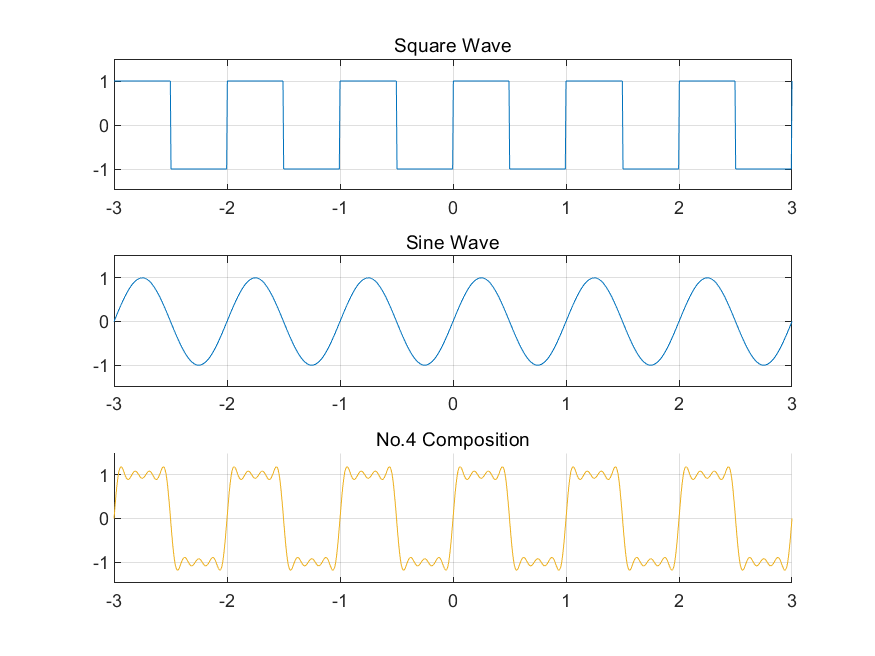
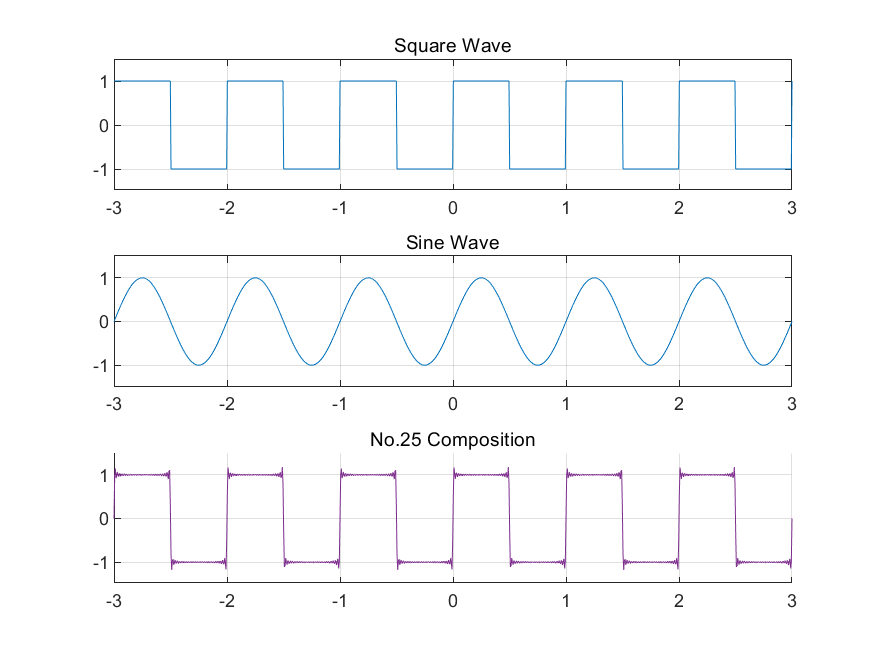
Add something

diff --git a/Project.tex b/Project.tex
@@ -80,30 +80,37 @@ If we imagine this graph is having some kind of mass to it, like metal wire. We 
 And we can do the same operation in a combination of two signal: $cos(2\pi 3t)+cos(2\pi 5t)$. Then we can get similar result: two peaks at 3 and 5 Hz. And now, we can make a bold assumptions that we can use the combination of sine or cosine signal to build another arbitrary signal. And we should proof it.\par
 Let us assume $f(t)=\sum\limits^{N}A_n \sin (n\omega t+\phi)$, then we will prove it.
 Since we want to using the combination of sine function, we let $f_T(t)$ equals to the sum of n-terms sine signal.
+%%Orignal sine formula
 $$
 f_T(t)=C_0+\sum\limits_{n=1}^N{\sin(n\Omega t+\phi_{n} ) } \quad \Omega=\frac{2\pi}{t}
 $$
+
 And we can make some modifications to the formula.
+%%Expansion of last formula
 $$
 f_T(t)=C_0+\sum\limits_{n=1}^N{[
 	A_n\sin(n\Omega t)\cos\phi_n+
 	A_n\cos(n\Omega t)\sin\phi_n
 	]}
 $$
+
 Let's denote $a_n=A_n\cos\phi_n$ and $b_n=A_n\sin\phi_n$
+%%Denote an and bn
 $$
 f_T(t)=C_0+\sum\limits_{n=1}^N{[
 	a_n\sin(n\Omega t)+
 	b_n\cos(n\Omega t)
 	]}
 $$
+
 Apply Euler's formula
+%%Euler's formula
 \begin{align}\nonumber
 \sin(x)=\frac{e^{jx}-e^{-jx}}{2j}\nonumber \\
 \cos(x)=\frac{e^{jx}+e^{-jx}}{2}\nonumber \\
 e^{jx}=\cos(x)+j\sin(x)\nonumber
 \end{align}
-
+%%Applied euler's formula and merge congeners 
 \begin{align}
 f_T(t)&=C_0+\sum\limits_{n=1}^{N}{[
 	a_n( \frac{ e^{jn\Omega t} + e^{-jn\Omega t} }{2j} )+
@@ -114,14 +121,18 @@ f_T(t)&=C_0+\sum\limits_{n=1}^{N}{[
 	( \frac{b_n+ja_n}{2} )e^{-jn\Omega t} 
 	]}\nonumber
 \end{align}
+
 Then we can denote $C_n=\frac{b_n-ja_n}{2}$ and $C_{-n}=\frac{b_n+ja_n}{2}$
+%%Denote Cn
 \begin{align}
 f_T(t)&=C_0+\sum\limits_{n=1}^{N}{(
 	C_n e^{jn\Omega t} + C_{-n} e^{-jn\Omega t}
 	)}\nonumber \\
 &=\sum\limits_{n=-N}^{N}{C_n e^{jn\Omega t}}\nonumber
 \end{align}
+
 Now we have the Fourier series of periodic signal $f_T(t)$, but we don't know how to calculate $C_n$.At this time, we can extract one term from n terms sum.We can denote it as $C_m$.
+%%How to calc Cn
 \begin{flalign}
 &f_T(t)=C_m e^{jm\Omega t} + 
 	\sum\limits_{ \substack{n=-N \\ n\neq m} }^{N}{C_n e^{jn\Omega t}} \nonumber \\
@@ -130,7 +141,9 @@ Now we have the Fourier series of periodic signal $f_T(t)$, but we don't know ho
 &C_m=f_T(t) e^{-jm\Omega t}-
 	\sum\limits_{ \substack{n=-N \\ n\neq m} }^{N}{C_n e^{j(n-m)\Omega t}} \nonumber
 \end{flalign}
+
 We can do integration in both sides
+%%Integration of left and right
 \begin{align}
 &\int_{0}^{T}{C_m\dif t}=\int_{0}^{T}{(f_T(t) e^{-jm\Omega t}-
 	\sum\limits_{ \substack{n=-N \\ n\neq m} }^{N}{C_n e^{j(n-m)\Omega t}})
@@ -139,33 +152,61 @@ We can do integration in both sides
 	\sum\limits_{ \substack{n=-N \\ n\neq m} }^{N}{C_n e^{j(n-m)\Omega t}}]
 	\dif t} \nonumber
 \end{align}
+
 Since integration and summation is linear operation, we can put integration into summation.
+%%Swap integratuion and summation
 \begin{align}
 	&TC_m=\int_{0}^{T}{f_T(t) e^{-jm\Omega t}} \dif t -
 		\sum\limits_{ \substack{n=-N \\ n\neq m} }^{N}{
 			\int_{0}^{T}C_n e^{j(n-m)\Omega t} \dif t
 		} \nonumber
 \end{align}
+
 For the inner item of summation, we have
+%%Calculate orthogonal terms 
 \begin{align}
 &\int_{0}^{T}{C_n e^{j(n-m)\Omega t} \dif t } \nonumber \\
 =&\ C_n\int_{0}^{T} e^{j(n-m)\Omega t} \nonumber \\
 =&\ \frac{C_n}{j(n-m)\Omega} \Big[ e^{ j(n-m) \frac{2\pi}{T} t} \Big]_{0}^{T} \nonumber \\
 =&\ 0 \nonumber
 \end{align}
+
 So, we can get
+%%Cn result
 $$
 C_n=\frac{1}{T}\int_0^T{f_T(t) e^{-jn\Omega t} \dif t}
 $$
+
 Now, we can get a series which is contain the combination of sine and cosine function. We can simply use it to verify our suggestion. If we have a square wave with frequency of 1Hz and 50\% duty cycle. Let's calculate its Fourier coefficient. And we should always start with $C_0$.
+%%C0 of square wave
 \begin{align}
-	C_0 &= \ \int_{0}^{1}{\frac{1}{1} f_T(t) e^{-j\Omega t \cdot 0} \dif t} \quad \Omega=\frac{2\pi}{T} \nonumber \\
+C_0 &= \ \int_{0}^{1}{f_T(t) e^{-j\Omega t \cdot 0} \dif t} \quad \Omega=\frac{2\pi}{T} \nonumber \\
 	&=\ \int_{0}^{1}{f_T(t) \dif t} \nonumber \\
 	&=\ \int_{0}^{0.5}{\dif t} + \int_{0.5}^{1}{- \dif t} \nonumber \\
-	&=\ 0 \nonumber
+	&=\ 0 \nonumber \\
+C_n &= \ \int_{0}^{1}{ f_T(t) e^{-jn\Omega t} \dif t} \nonumber \\
+	&= \ \int_{0}^{0.5}{e^{-jn\Omega t} \dif t} +
+		 \int_{0.5}^{1}{-e^{-jn\Omega t} \dif t} \nonumber \\
+	&= \ \Big[-\frac{1}{jn\Omega} e^{-jn\Omega t}\Big|_{0}^{0.5} \Big] -
+	   	 \Big[\frac{1}{jn\Omega} e^{-jn\Omega t}\Big|_{0.5}^{1} \Big] \nonumber
+\end{align}
+Apply $\Omega \ = \ \frac{2\pi}{T} $
+\begin{align}
+C_n	&= \ \Big[-\frac{1}{jn2\pi} e^{-jn2\pi t}\Big|_{0}^{0.5} \Big] -
+		 \Big[\frac{1}{jn2\pi} e^{-jn2\pi t}\Big|_{0.5}^{1} \Big] \nonumber \\
+	&= \ \cfrac{j}{2\pi n}\Big[ e^{-j\pi n} -1 -e^{-j2\pi n} +e^{-j\pi n} \Big] \nonumber \\
+	&= \ \cfrac{j}{2\pi n}\Big[ 2e^{-j\pi n -1 -e^{-j2\pi n}} \Big] \nonumber
+\end{align}
+We can simply calculate that $e^{-j2\pi n}=1$ and $e^{-j\pi n}=(-1)^{n}$. So we can get
+\begin{align}
+C_n &= \ \cfrac{j}{\pi n}\Big[ (-1)^n-1 \Big] \nonumber \\
+	&=\begin{cases}
+		\cfrac{-2j}{\pi n}&  {odd \ n} \\
+		0&  {even \ n}
+ 	  \end{cases}	\nonumber
 \end{align}
 \begin{figure}[H]
-	\centerline{\animategraphics[autoplay,loop,scale=0.5]{2}{figure/fig_5/fig-}{1}{10}}
+	\centerline{\animategraphics[autoplay,loop,scale=0.5]{1}{figure/fig_5/fig-}{0}{5}}
 \end{figure}
 \clearpage
 

diff --git a/code/Gen_Square_Wave.m b/code/Gen_Square_Wave.m
@@ -34,13 +34,17 @@ xticks(-3:1:3);
 yticks(-1:1:1);
 grid on;
 hp=plot(x,0);
-for i=1:1:10
-    delete(hp);
+m=0;
+for i=1:1:30
     fif_sin=fif_sin+4/pi*1/(2.*i-1).*sin(omg.*(2.*i-1).*x);
-    ss=sprintf("No.%d Composition",i);
-    title(ss)
-    hp=plot(x,fif_sin);
-    pause(0.5);
-    str=sprintf("../figure/fig_2/fig-%d.png",i);
-    saveas(hp,str);
+    if mod(i,5)==0
+        delete(hp);
+        ss=sprintf("No.%d Composition",i);
+        title(ss)
+        hp=plot(x,fif_sin);
+        pause(0.5);
+        str=sprintf("../figure/fig_5/fig-%d.png",m);
+        saveas(hp,str);
+        m=m+1;
+    end
 end
